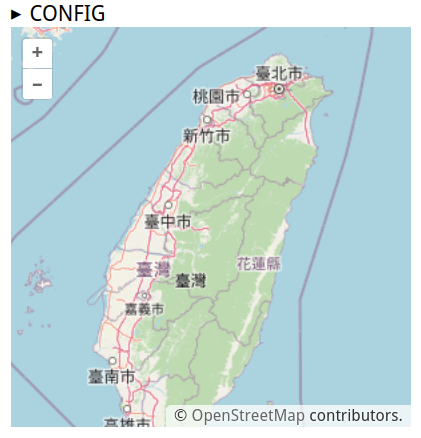
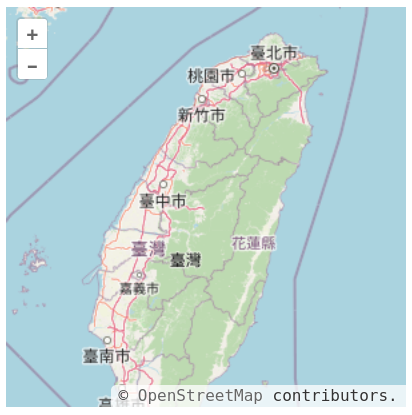
Move some contents into wiki

diff --git a/README.md b/README.md
@@ -1,8 +1,13 @@
 [![npm version](https://badge.fury.io/js/mapclay.svg)](https://badge.fury.io/js/mapclay)
 
+In short, this module allows user build web map as soon as possible by simple options.
+
+No third-party Map Framework dominates.
+This module just creates an interface to connect options and pre-defined map renderer.
+
 ## Quick Start
 
-Create an HTML file with the following contents:
+Create an HTML file with the following lines:
 
 ```html
 <div class="map"></div>
@@ -10,19 +15,20 @@ Create an HTML file with the following contents:
 ```
 
 `mapclay.js` simply renders elements with `class="map"`(by default) as web map:
+
 <img width="250px" src="resources/example_1.png">
 
 
 Here is another example:
 
 ```html
-<div class="map"></div>
 <pre class="map">
 use: maplibre
-width: 50vw
-height: 500px
+width: 40vw
+height: 300px
 center: [142.73, 43.83]
 </pre>
+<div class="map"></div>
 <script type="module" src="https://unpkg.com/mapclay@{VERSION}/js/mapclay.js"></script>
 ```
 
@@ -35,12 +41,12 @@ In this case, a new element with `class="map"` is added. Its text is used to con
 
 For each option:
 `use: maplibre`: Here we use [maplibre][] as map renderer
-`width: 50vw`: The map's width should occupy half of viewport
-`hieght: 500px`: And height should be 500px.
-`center: [142.73, 43.83]`: The center of map is **140.73E 43.83N**.
+`width: 40vw`: The map's width should occupy half of viewport
+`hieght: 300px`: And height should be 500px.
+`center: [142.73, 43.83]`: The center of map is **140.73E 43.83N** (Hokaido).
 
-Each renderer has its own default values.
-By default, [maplibre][] use [demotiles][] as its basemap
+Each renderer has its own default way to render a map.
+By default, [maplibre][] use [demotiles][] as its basemap.
 
 
 ## Why This?
@@ -52,6 +58,7 @@ But to make a web map with them, adequate frontend knowledge are necessary.
 As a hiker and a part-time volunteer of rescue, I have many friends who need to 
 create digital maps for a variety of activities. Since most of them are not 
 developer, their solutions are *QGIS*, *Garmin BaseCamp* or *Google My-Map/Earth*.
+
 These solutions have better UI, but none of them can fulfill the followings 
 at the same time:
 
@@ -62,105 +69,12 @@ at the same time:
 
 In short, **mapclay** is the abstraction for those use cases.
 
-## How it works?
 
-`mapclay.js` only do several things:
+## Behind the hoods
 
-1. Use CSS selector (`.map` by default) to get elements about map rendering
-1. Parse inner text of each element from YAML format into object. 
-1. If object has no property called `use`, assign it by default value.
-1. For each `use` value, a coresponding **Renderer** JS class uses 
-   `renderMap()` method to render elements into maps.
-
-```mermaid
-flowchart
-  subgraph mapclay.js
-    direction TB
-    1.1(Define renderInfo)
-    1.2(Check which element\nscript would apply on)
-    1.3(Define targetElements\nand fromElements)
-    1.1 --> 1.2 --> 1.3 --> refresh_map
-  end
-  subgraph refresh_map["refreshMap()"]
-    2.1(Get options from elements)
-    2.1 --> for_each_element --> for_each_renderer
-  end
-  subgraph for_each_element["For each element"]
-    direction TB
-    3.1(If preset is set, get options\nfrom previous element)
-    3.2(Set default renderer\nif it is not set)
-    3.3(Add used renderer)
-    3.1 --> 3.2 --> 3.3
-  end
-  subgraph for_each_renderer["For each renderer used"]
-    direction TB
-    4.1(Import renderer\nby await)
-    4.2(Set renderer as\nproperty of window)
-    4.3(IO: Load resources)
-    4.4(Promise: Render each\nelements use this renderer)
-    4.1 --> 4.2 --> 4.3 --> 4.4
-  end
-  subgraph renderer
-    subgraph render_map["renderMap()"]
-      5.1(Remove all children elements)
-      5.2(Set element\nwidth/hieght)
-      5.3(IO: import modules)
-      5.4("createMap()")
-      5.5("afterMapCreated()")
-      5.1 --> 5.2 --> 5.3 --> 5.4 --> 5.5
-    end
-  end
-```
-
-By default, `mapclay.js` comes with three preinstalled **Renderer** JS [classes][]: 
-`openlayers`, `maplibre` and `leaflet`.
-Of course each of them use map library with the same name.
-
-
-## Integration
-
-### hugo
-
-[hugo][] is a popular static site generator. Write markdown files, 
-then you get well-organized web pages. Just a little tweak, you can write 
-configuration in Code Blocks and get map quickly in generated pages.
-
-Put a [render hook][] file called `render-codeblock-map.html` into `layouts/_default/_markup/`
-in your hugo project. With the following contents:
-
-```html
-<div>
-  <pre class="map">
-    {{- .Inner | safeHTML }}
-  </pre>
-</div>
-{{ .Page.Store.Set "hasMap" true }}
-```
-
-This override the default markdown rendering behavior of hugo. Now if a markdown
-file contains Code Blocks marked `map` like this:
-
-    ```map
-    width: 500px
-    height: 500px
-    center: [142.73, 43.83]
-    zoom: 10
-    ```
-
-Then this creates a `<pre>` tag and put
-codes inside it. Also this marks the web page `hasMap=true` property.
-
-Then in each necessary templates (said `layouts/_default/single.html`),
-put the following contents at the end:
-
-```html
-{{ if .Page.Store.Get "hasMap" }}
-<script type="module" src="https://unpkg.com/mapclay@{VERSION}/js/mapclay.js"></script>
-{{ end }}
-```
-
-So each page marked `hasMap=ture` would has `mapclay.js` loaded after DOM parsed.
-And you get map in your pages.
+Read wiki page for more information:
+- [How it works?][]
+- [Integration][]
 
 
 ## Contribution
@@ -178,6 +92,5 @@ http://cartodb.github.io/odyssey.js/
 
 [maplibre]:     https://maplibre.org/projects/maplibre-gl-js/
 [demotiles]:    https://github.com/maplibre/demotiles/
-[classes]:      https://github.com/typebrook/mapclay.js/tree/master/js/
-[hugo]:         https://gohugo.io/
-[render hook]:  https://gohugo.io/templates/render-hooks/
+[How it works?]: /typebrook/mapclay.js/wiki/How-it-works
+[Integration]: /typebrook/mapclay.js/wiki/Integration
